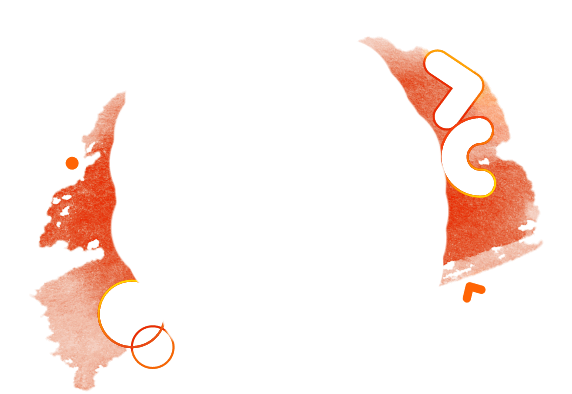
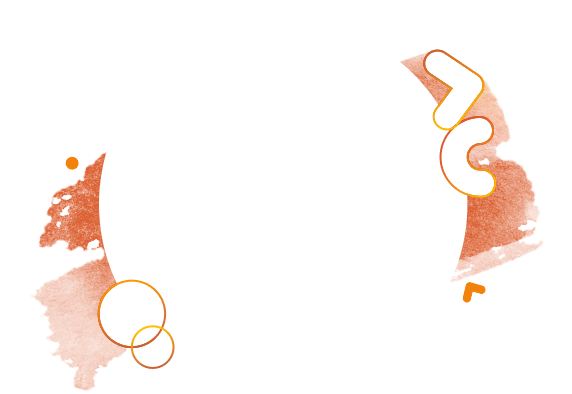
Bug 1734264 - Upgrade spotlight visual adjustments from design feedback r=pdahiya
Fix background sizing of horizontal color circles with updated hover styles and improved spacing among/around. Position primary button with invisible secondary button. Update noodle svg to avoid aliasing. Adjust variant disc and color circles gradient colors and direction (vertical) now always with black variant text and increased button font size. Also adjust about:welcome thank you confetti and fancy header. Update a couple backgrounds and positioning.

Differential Revision: https://phabricator.services.mozilla.com/D127601

diff --git a/browser/themes/shared/upgradeDialog.css b/browser/themes/shared/upgradeDialog.css
@@ -23,10 +23,10 @@ body {
 }
 
 body.confetti {
-  background: url(chrome://activity-stream/content/data/content/assets/confetti.svg) center -65px / cover no-repeat;
+  background: url(chrome://activity-stream/content/data/content/assets/confetti.svg) top / 100% no-repeat;
 }
 
-body > .hidden {
+body > .hidden:not(:disabled) {
   display: none;
 }
 
@@ -93,54 +93,31 @@ body.confetti #title {
 
 .colorways {
   display: flex;
+  flex: 1;
   flex-direction: column-reverse;
-  margin-top: auto;
-  padding-top: 3px;
 }
 
 .themes {
   display: flex;
-  padding: 14px 0;
+  margin: 0 auto auto;
 }
 
 /* Make these theme radio buttons appear like regular buttons. */
 .themes > input {
-  background: initial;
+  background: initial !important; /* Override custom radio/:hover styles. */
   border: initial;
   border-radius: 4px;
   display: flex;
-  flex: 1;
-  flex-direction: column;
-  font-size: 12px;
   height: initial;
-  line-height: 16px;
-  margin: 0 5px;
-  overflow: clip;
+  margin: 0;
   padding: 7px;
-  text-align: center;
-  width: initial;
-}
-
-.themes > input:checked {
-  background: initial;
-  color: inherit;
-}
-
-/* The selected/checked theme styling is handled on the ::before, so override
- * the special checked colors and match those of an unchecked radio button. */
-.themes > input:enabled:checked:hover {
-  background-color: var(--in-content-button-background-hover);
-  color: var(--in-content-button-text-color-hover);
-}
-
-.themes > input:enabled:checked:hover:active {
-  background-color: var(--in-content-button-background-active);
+  width: 55px;
 }
 
 /* Display a custom theme swatch at the top of each button. */
 .themes > ::before {
   background-repeat: no-repeat;
-  background-size: 100%;
+  background-size: cover;
   border-radius: 100%;
   content: "";
   height: 22px;
@@ -148,6 +125,15 @@ body.confetti #title {
   outline: 1px solid var(--in-content-border-color);
   outline-offset: -0.5px;
   width: 22px;
+}
+
+.themes > :hover::before {
+  outline: 2px solid var(--in-content-primary-button-background-hover);
+  outline-offset: 2px;
+}
+
+.themes > :hover:active::before {
+  outline-color: var(--in-content-primary-button-background-active);
 }
 
 .themes > :checked::before {
@@ -160,7 +146,7 @@ body.confetti #title {
 .variations[next="0"]::after {
   /* Gradients aren't used for high contrast, so show a solid color instead. */
   background-color: var(--in-content-page-background);
-  background-image: linear-gradient(#FFFFFF, #D8D8D8);
+  background-image: linear-gradient(#F0F0F4, #9F9FAD);
 }
 
 .themes > :nth-child(1)::before {
@@ -217,6 +203,8 @@ body.confetti #title {
     --in-content-button-background-hover: rgba(0, 0, 0, 0.2);
     --in-content-button-text-color-hover: var(--in-content-page-color);
     --in-content-focus-outline-color: var(--in-content-primary-button-background);
+    --in-content-page-color: black;
+    --in-content-page-background: transparent;
     --in-content-primary-button-background: rgba(0, 0, 0, 0.5);
     --in-content-primary-button-background-active: rgba(0, 0, 0, 0.36);
     --in-content-primary-button-background-hover: rgba(0, 0, 0, 0.64);
@@ -230,21 +218,15 @@ body.confetti #title {
   border-radius: 100%;
   display: flex;
   flex-direction: column;
-  height: 150px;
+  height: 158px;
   justify-content: space-around;
   margin: auto;
-  padding: 20px;
+  outline: 2px solid var(--in-content-box-border-color);
+  outline-offset: -2px;
+  padding-block: 20px 12px;
   position: relative;
   text-align: center;
-  width: 150px;
-}
-
-.variations:is(.default, .cheers, .foto) {
-  --in-content-page-color: black;
-}
-
-.variations:is(.abstract, .lush, .graffiti, .elemental) {
-  --in-content-page-color: white;
+  width: 190px;
 }
 
 /* Show a custom background image that transitions for each theme. */
@@ -252,7 +234,7 @@ body.confetti #title {
   background-size: 100%;
   content: "";
   height: 197px;
-  left: -49px;
+  left: -48px;
   margin: auto;
   pointer-events: none;
   position: absolute;
@@ -313,6 +295,7 @@ body.confetti #title {
   opacity: 0;
   pointer-events: none;
   position: absolute;
+  top: 0;
   transition: .4s opacity;
   width: 190px;
 }
@@ -324,6 +307,8 @@ body.confetti #title {
 
 .variations > * {
   color: var(--in-content-page-color);
+  background-color: var(--in-content-page-background);
+  margin-inline: auto;
   transition: .4s opacity;
   opacity: 1;
 }
@@ -335,8 +320,9 @@ body.confetti #title {
 /* Make these variation radio buttons appear like regular buttons. */
 .variations > input {
   border-radius: 2px;
-  font-size: 10px;
+  font-size: 12px;
   height: unset;
+  line-height: 1.2;
   margin: auto;
   padding: 6px 12px;
   width: unset;
@@ -351,14 +337,20 @@ body.confetti #title {
   font-size: 14px;
   margin: auto;
   max-width: 460px;
-  padding-bottom: 14px;
+  padding-bottom: 20px;
 }
 
-#primary {
+button {
+  line-height: 1;
   margin: auto auto 0;
 }
 
 #secondary {
-  margin: 9px auto 0;
+  margin-top: 9px;
   padding: 4px;
+}
+
+#secondary:disabled {
+  margin-bottom: 1em;
+  visibility: hidden;
 }

diff --git a/browser/components/newtab/content-src/aboutwelcome/aboutwelcome.scss b/browser/components/newtab/content-src/aboutwelcome/aboutwelcome.scss
@@ -552,8 +552,8 @@ body {
     display: block;
     margin: auto;
     background-image: url('chrome://activity-stream/content/data/content/assets/confetti.svg');
-    background-position: center;
-    background-size: cover;
+    background-position: top;
+    background-size: 100%;
     background-repeat: no-repeat;
     height: 438px;
     width: 504px;
@@ -885,14 +885,7 @@ body {
       padding-bottom: 16px;
       position: relative;
       text-align: center;
-      background: linear-gradient(70deg,
-        rgba(220, 171, 32, 0) 5%,
-        #2A613A 22%,
-        #D198A1 41%,
-        #844D9E 59%,
-        #E27B50 78%,
-        rgba(220, 171, 32, 0) 95%
-      ), linear-gradient(rgba(220, 171, 32, 100), rgba(220, 171, 32, 100));
+      background-image: linear-gradient(90deg, #6173FF, #ED1D5F, #F6901E, #6173FF);
       background-size: 400% auto;
       color: #000;
       background-clip: text;

diff --git a/browser/components/newtab/aboutwelcome/content/aboutwelcome.css b/browser/components/newtab/aboutwelcome/content/aboutwelcome.css
@@ -488,8 +488,8 @@ body[lwt-newtab-brighttext] {
   display: block;
   margin: auto;
   background-image: url("chrome://activity-stream/content/data/content/assets/confetti.svg");
-  background-position: center;
-  background-size: cover;
+  background-position: top;
+  background-size: 100%;
   background-repeat: no-repeat;
   height: 438px;
   width: 504px;
@@ -781,7 +781,7 @@ body[lwt-newtab-brighttext] {
   padding-bottom: 16px;
   position: relative;
   text-align: center;
-  background: linear-gradient(70deg, rgba(220, 171, 32, 0) 5%, #2A613A 22%, #D198A1 41%, #844D9E 59%, #E27B50 78%, rgba(220, 171, 32, 0) 95%), linear-gradient(#dcab20, #dcab20);
+  background-image: linear-gradient(90deg, #6173FF, #ED1D5F, #F6901E, #6173FF);
   background-size: 400% auto;
   color: #000;
   background-clip: text;

diff --git a/browser/base/content/upgradeDialog.js b/browser/base/content/upgradeDialog.js
@@ -348,8 +348,11 @@ function onLoad(ready) {
         document.l10n.setAttributes(el, stringId);
         translatedElements.push(el);
         el.classList.remove("hidden");
+        el.disabled = false;
       } else {
         el.classList.add("hidden");
+        // Disabled inputs take up space to avoid shifting layout.
+        el.disabled = true;
         // Avoid screen readers from seeing this too.
         el.textContent = "";
       }
